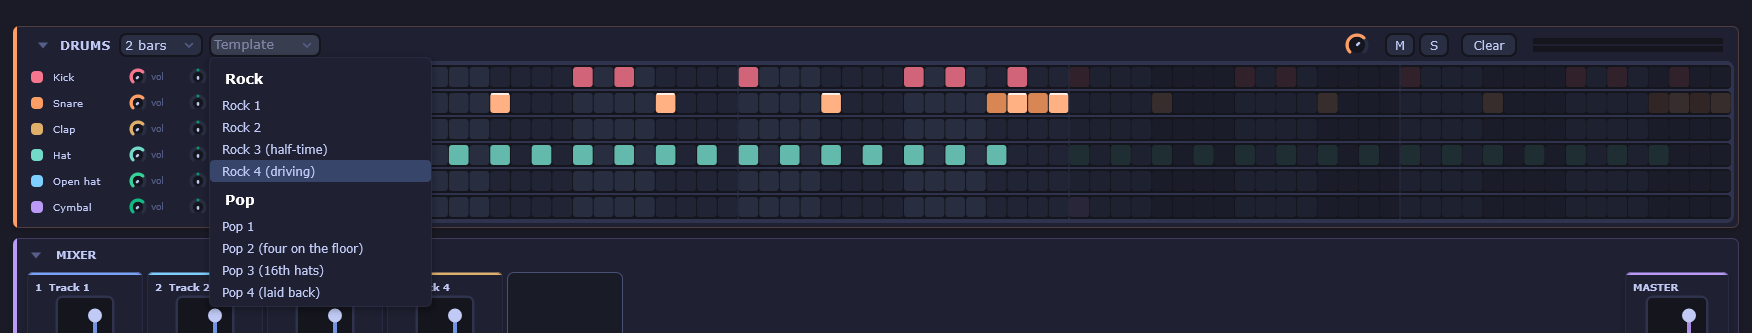
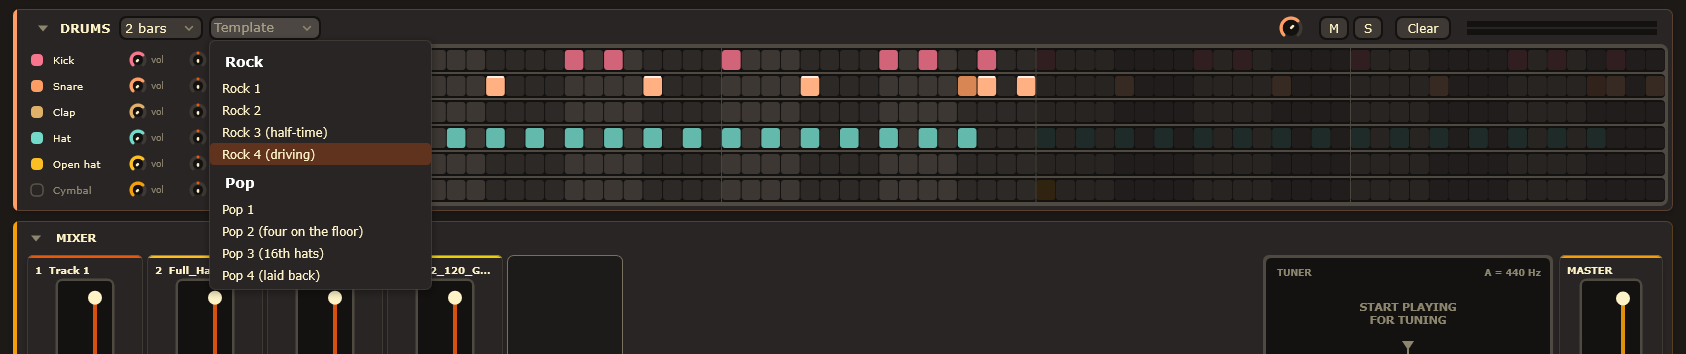
v0.45: harden project loading/saving, cap notes, refresh README and screenshots

diff --git a/Source/project/ProjectIO.cpp b/Source/project/ProjectIO.cpp
@@ -3,9 +3,31 @@
 
 namespace ProjectIO
 {
+bool isSafeTrackFile (const juce::File& dir, const juce::String& name)
+{
+    if (name.isEmpty() || name.length() > 80) return false;
+    if (name != juce::File::createLegalFileName (name)) return false;          // no separators, drive letters or reserved characters
+    if (name.contains ("..") || ! name.endsWithIgnoreCase (".wav")) return false;
+    return dir.getChildFile (name).getParentDirectory() == dir;
+}
+
 bool save (AudioEngine& e, const juce::File& dir, juce::String& error)
 {
+    // never write into a folder that holds somebody else's files
+    if (dir.exists() && ! dir.getChildFile ("project.json").existsAsFile()
+        && dir.getNumberOfChildFiles (juce::File::findFilesAndDirectories) > 0)
+    {
+        error = "\"" + dir.getFileName() + "\" is not empty and is not a RiffCatch project. Choose a new or empty folder.";
+        return false;
+    }
     if (! dir.createDirectory()) { error = "Could not create " + dir.getFullPathName(); return false; }
+
+    // the track files an earlier save of this project wrote: only these may be cleaned up later
+    juce::StringArray ownedBefore;
+    const auto oldJson = juce::JSON::parse (dir.getChildFile ("project.json"));    // kept alive while its array is read
+    if (auto* oldTracks = oldJson["tracks"].getArray())
+        for (auto& t : *oldTracks)
+            if (isSafeTrackFile (dir, t["file"].toString())) ownedBefore.add (t["file"].toString());
 
     juce::AudioFormatManager fm;
     fm.registerBasicFormats();
@@ -47,12 +69,12 @@ bool save (AudioEngine& e, const juce::File& dir, juce::String& error)
         o->setProperty ("offsetMs", tr.offset.load() * 1000.0 / juce::jmax (1.0, e.getSampleRate()));
         tracks.add (juce::var (o));
     }
-    // remove stale wav files from removed/cleared tracks
-    for (auto& f : dir.findChildFiles (juce::File::findFiles, false, "track*.wav"))
+    // remove stale wav files from removed/cleared tracks (only files this project wrote earlier)
+    for (auto& name : ownedBefore)
     {
         bool used = false;
-        for (auto& t : tracks) used |= (t["file"].toString() == f.getFileName());
-        if (! used) f.deleteFile();
+        for (auto& t : tracks) used |= (t["file"].toString() == name);
+        if (! used) dir.getChildFile (name).deleteFile();
     }
 
     auto* loop = new juce::DynamicObject();
@@ -66,7 +88,7 @@ bool save (AudioEngine& e, const juce::File& dir, juce::String& error)
     root->setProperty ("name", dir.getFileName());
     root->setProperty ("bpm", e.bpm.load());
     root->setProperty ("timeSignature", juce::String (e.tsNum.load()) + "/" + juce::String (e.tsDen.load()));
-    root->setProperty ("notes", e.projectNotes);
+    root->setProperty ("notes", e.projectNotes.substring (0, maxNotesLength));
     root->setProperty ("clickEnabled", e.clickEnabled.load());
     root->setProperty ("clickVolume", (double) e.clickVolume.load());
     root->setProperty ("countInBars", e.countInBars.load());
@@ -127,22 +149,32 @@ bool load (AudioEngine& e, const juce::File& dir, juce::String& error)
         auto& tr = e.tracks[i];
 
         auto t = arr->getReference (i);
-        tr.name = t["name"].toString();
-        tr.volume = (float) (double) t.getProperty ("volume", 1.0);
-        tr.pan = (float) (double) t.getProperty ("pan", 0.0);
+        tr.name = t["name"].toString().substring (0, maxNameLength);
+        tr.volume = juce::jlimit (0.0f, 4.0f, (float) (double) t.getProperty ("volume", 1.0));
+        tr.pan = juce::jlimit (-1.0f, 1.0f, (float) (double) t.getProperty ("pan", 0.0));
         tr.mute = (bool) t.getProperty ("mute", false);
         tr.solo = (bool) t.getProperty ("solo", false);
-        tr.inputCode = (int) t.getProperty ("input", 0);
+        {
+            const int in = (int) t.getProperty ("input", 0);                   // 0..15 = mono input, 100..115 = stereo pair
+            tr.inputCode = (in >= 100 && in <= 115) ? in : juce::jlimit (0, 15, in);
+        }
         tr.echoOn = (bool) t.getProperty ("echo", false);
         tr.echoDiv = juce::jlimit (0, (int) TrackFx::numDivs - 1, (int) t.getProperty ("echoDiv", (int) TrackFx::Quarter));
         tr.reverbOn = (bool) t.getProperty ("reverb", false);
-        tr.offset = ((int) std::lround ((double) (t.hasProperty ("offsetMs") ? t.getProperty ("offsetMs", 0.0) : t.getProperty ("nudgeMs", 0.0)) * devRate / 1000.0));
+        {
+            const double ms = juce::jlimit (-20.0 * 60000.0, 20.0 * 60000.0, (double) (t.hasProperty ("offsetMs") ? t.getProperty ("offsetMs", 0.0) : t.getProperty ("nudgeMs", 0.0)));
+            tr.offset = (int) std::lround (ms * devRate / 1000.0);
+        }
 
-        auto file = dir.getChildFile (t["file"].toString());
-        if (t["file"].toString().isNotEmpty() && file.existsAsFile())
+        const auto fileName = t["file"].toString();
+        auto file = dir.getChildFile (fileName);
+        if (isSafeTrackFile (dir, fileName) && file.existsAsFile())
         {
             std::unique_ptr<juce::AudioFormatReader> r (fm.createReaderFor (file));
             if (r == nullptr) continue;
+            if (r->sampleRate < 8000.0 || r->sampleRate > 384000.0 || r->lengthInSamples <= 0
+                || (double) r->lengthInSamples > 20.0 * 60.0 * r->sampleRate)   // same limit as importing audio
+                continue;
             const int len = (int) r->lengthInSamples;
             juce::AudioBuffer<float> buf (2, len);
             r->read (&buf, 0, len, 0, true, true);
@@ -163,7 +195,7 @@ bool load (AudioEngine& e, const juce::File& dir, juce::String& error)
         }
     }
 
-    e.projectNotes = json.getProperty ("notes", "").toString();
+    e.projectNotes = json.getProperty ("notes", "").toString().substring (0, maxNotesLength);
     {
         const auto ts = json.getProperty ("timeSignature", "4/4").toString();
         const int num = ts.upToFirstOccurrenceOf ("/", false, false).getIntValue(), den = ts.fromFirstOccurrenceOf ("/", false, false).getIntValue();

diff --git a/Source/SelfTest.h b/Source/SelfTest.h
@@ -436,6 +436,51 @@ inline juce::String runEngineSelfTest()
         check (b4.bars == 4 && std::memcmp (&b4.steps[1][0], &b4.steps[1][32], 16) == 0, "longer patterns repeat the two bars");
     }
 
+    {   // project files from other people: hardening
+        const auto root = juce::File::getSpecialLocation (juce::File::tempDirectory).getChildFile ("riffcatch-security-test");
+        root.deleteRecursively();
+        const auto pdir = root.getChildFile ("p");
+        check (ProjectIO::isSafeTrackFile (pdir, "track1.wav"), "plain track file name is accepted");
+        check (! ProjectIO::isSafeTrackFile (pdir, "..\\evil.wav") && ! ProjectIO::isSafeTrackFile (pdir, "../evil.wav")
+               && ! ProjectIO::isSafeTrackFile (pdir, "C:\\Windows\\x.wav") && ! ProjectIO::isSafeTrackFile (pdir, "sub\\a.wav")
+               && ! ProjectIO::isSafeTrackFile (pdir, "track1.exe") && ! ProjectIO::isSafeTrackFile (pdir, ""), "paths, traversal and other extensions are rejected");
+
+        // a hand-made project.json with hostile values
+        pdir.createDirectory();
+        const auto longNotes = juce::String::repeatedString ("x", 50000);
+        pdir.getChildFile ("project.json").replaceWithText (
+            "{\"tracks\":[{\"name\":\"" + juce::String::repeatedString ("n", 500) + "\",\"volume\":1e9,\"pan\":-50,\"input\":-5,\"offsetMs\":1e15,\"file\":\"..\\\\..\\\\x.wav\"}],"
+            "\"bpm\":99999,\"timeSignature\":\"99/3\",\"notes\":\"" + longNotes + "\"}");
+        auto he = std::make_unique<AudioEngine>();
+        he->prepareForTest (48000.0, 2);
+        juce::String herr;
+        check (ProjectIO::load (*he, pdir, herr), "a hostile project.json still loads (values are clamped)");
+        const auto& ht = he->tracks[he->order.front()];
+        check (ht.volume.load() <= 4.0f && std::abs (ht.pan.load()) <= 1.0f && ht.inputCode.load() >= 0 && ht.name.length() <= ProjectIO::maxNameLength
+               && std::abs (ht.offset.load()) <= 48000 * 60 * 20 && ht.length.load() == 0, "hostile track values are clamped and the escaping file is ignored");
+        check (he->projectNotes.length() == ProjectIO::maxNotesLength && he->bpm.load() <= 300.0 && he->tsNum.load() <= 16 && he->tsDen.load() == 4,
+               "notes, tempo and time signature are limited");
+
+        // saving never touches a folder with someone else's files
+        const auto foreign = root.getChildFile ("foreign");
+        foreign.createDirectory();
+        foreign.getChildFile ("track1.wav").replaceWithText ("my precious file");
+        juce::String serr;
+        auto se = std::make_unique<AudioEngine>();
+        se->prepareForTest (48000.0, 2);
+        se->addTrack();
+        se->tracks[se->order.front()].setAudio (juce::AudioBuffer<float> (2, 4800));
+        check (! ProjectIO::save (*se, foreign, serr) && foreign.getChildFile ("track1.wav").loadFileAsString() == "my precious file", "saving into a foreign non-empty folder is refused");
+        // a real project folder: stale track files are removed, unrelated files are kept
+        const auto mine = root.getChildFile ("mine");
+        check (ProjectIO::save (*se, mine, serr), "saving into a new folder works");
+        mine.getChildFile ("track7.wav").replaceWithText ("not written by RiffCatch");
+        se->tracks[se->order.front()].clearAudio();
+        const bool saved2 = ProjectIO::save (*se, mine, serr);
+        check (saved2 && ! mine.getChildFile ("track1.wav").existsAsFile() && mine.getChildFile ("track7.wav").existsAsFile(),
+               "only the files RiffCatch wrote are cleaned up (saved " + juce::String ((int) saved2) + ", err " + serr + ", track1 exists " + juce::String ((int) mine.getChildFile ("track1.wav").existsAsFile()) + ", track7 exists " + juce::String ((int) mine.getChildFile ("track7.wav").existsAsFile()) + ")");
+        root.deleteRecursively();
+    }
     {   // Catch: always-on ring
         auto ce = std::make_unique<AudioEngine>();
         ce->prepareForTest (48000.0, 2);

diff --git a/Source/project/ProjectIO.h b/Source/project/ProjectIO.h
@@ -5,6 +5,10 @@
 // Project folder: project.json + one WAV per track.
 namespace ProjectIO
 {
+    constexpr int maxNotesLength = 20000;
+    constexpr int maxNameLength = 120;
+    // A track file name from project.json must be a plain "<name>.wav" in the project folder (no paths, no "..").
+    bool isSafeTrackFile (const juce::File& dir, const juce::String& name);
     bool save (AudioEngine& engine, const juce::File& dir, juce::String& error);
     bool load (AudioEngine& engine, const juce::File& dir, juce::String& error);
 }

diff --git a/Source/MainComponent.cpp b/Source/MainComponent.cpp
@@ -1490,6 +1490,7 @@ void MainComponent::editNotes()
     ed->setMultiLine (true, true);
     ed->setReturnKeyStartsNewLine (true);
     ed->setTextToShowWhenEmpty ("Notes for this project: key, capo, ideas...", Theme::dim);
+    ed->setInputRestrictions (ProjectIO::maxNotesLength);
     ed->setText (engine.projectNotes, false);
     ed->setSize (340, 190);
     juce::Component::SafePointer<MainComponent> self (this);

diff --git a/README.md b/README.md
@@ -8,7 +8,7 @@ A lightweight multitrack looper and recorder for guitarists, built with JUCE and
 
 ### Recording and looping
 - Up to 16 tracks, each with its own input selector, arm, mute, solo, volume and pan
-- Loop lengths from 1 to 64 bars at 4/4, sample-synchronous transport
+- Loop lengths from 1 to 64 bars, sample-synchronous transport
 - Time signatures 2/4, 3/4, 4/4, 5/4, 6/8 and 7/8 (BPM counts quarter notes; the click, ruler, loop length and drum grid follow)
 - Count-in, metronome click with volume, tap tempo
 - Punch in/out recording
@@ -20,10 +20,10 @@ A lightweight multitrack looper and recorder for guitarists, built with JUCE and
 - **Looper mode** (button): one key (Shift+Space) or a MIDI foot switch. First press records the first loop, second press closes it (rounded to whole bars, BPM follows), then each press records one pass on a new track starting at the next loop start. Learn the foot switch from File > Looper pedal
 
 ### Drum machine
-- 16-step-per-beat grid with Kick, Snare, Clap, Hat, Open hat and Cymbal
+- Step sequencer in sixteenth notes with Kick, Snare, Clap, Hat, Open hat and Cymbal. The bar layout follows the time signature (16 steps in 4/4, 12 in 3/4 and 6/8, 14 in 7/8, 20 in 5/4)
 - Per-row volume and pan (pitch on Cymbal), master mute/solo and level meter
-- 1, 2 or 4 bar patterns
-- Template library (Rock, Pop and more), applied with undo support
+- Patterns of 1 to 8 bars, with accents and per-lane mute
+- 21 ready-made two-bar grooves with a fill (Rock and Pop in 4/4, plus waltz, polka, march, 5/4, 6/8 and 7/8 patterns). The list shows the templates for the current time signature, and applying one is undoable
 
 ![Drum templates](docs/screenshots/drum-templates.png)
 
@@ -37,16 +37,16 @@ A lightweight multitrack looper and recorder for guitarists, built with JUCE and
 - Import audio files (WAV and others) onto a new track by menu, drag and drop, or right-click in the empty area below the tracks
 
 ### Mixer
-- Channel strips with level meters, fader, pan, mute, solo, plus Echo and Reverb sends
+- Channel strips with level meters, fader, pan, mute, solo, plus Echo and Reverb per track
 - Master strip with stereo meter
 
 ### Tuner
-- Chromatic tuner in the mixer area, fed from the input of the armed track (or track 1). Scrolling cent ruler, note name, Hz and cents, adjustable A reference (430-450 Hz)
+- Chromatic tuner in the mixer area, fed from the input of the armed track (or track 1). Scrolling cent ruler, note name, Hz and cents, adjustable A reference (430-450 Hz, remembered)
 
 ### Export and projects
 - Projects saved as one WAV per track plus `project.json`
 - Export mix to WAV or MP3 (LAME)
-- Free-text project notes (Notes button in the top bar), saved with the project
+- Free-text project notes (Notes button in the top bar), saved with the project and the autosave
 
 ### Themes
 - Nine built-in themes, switched from the File menu or with `Ctrl+Shift+O` / `Ctrl+Shift+P` (previous / next)
